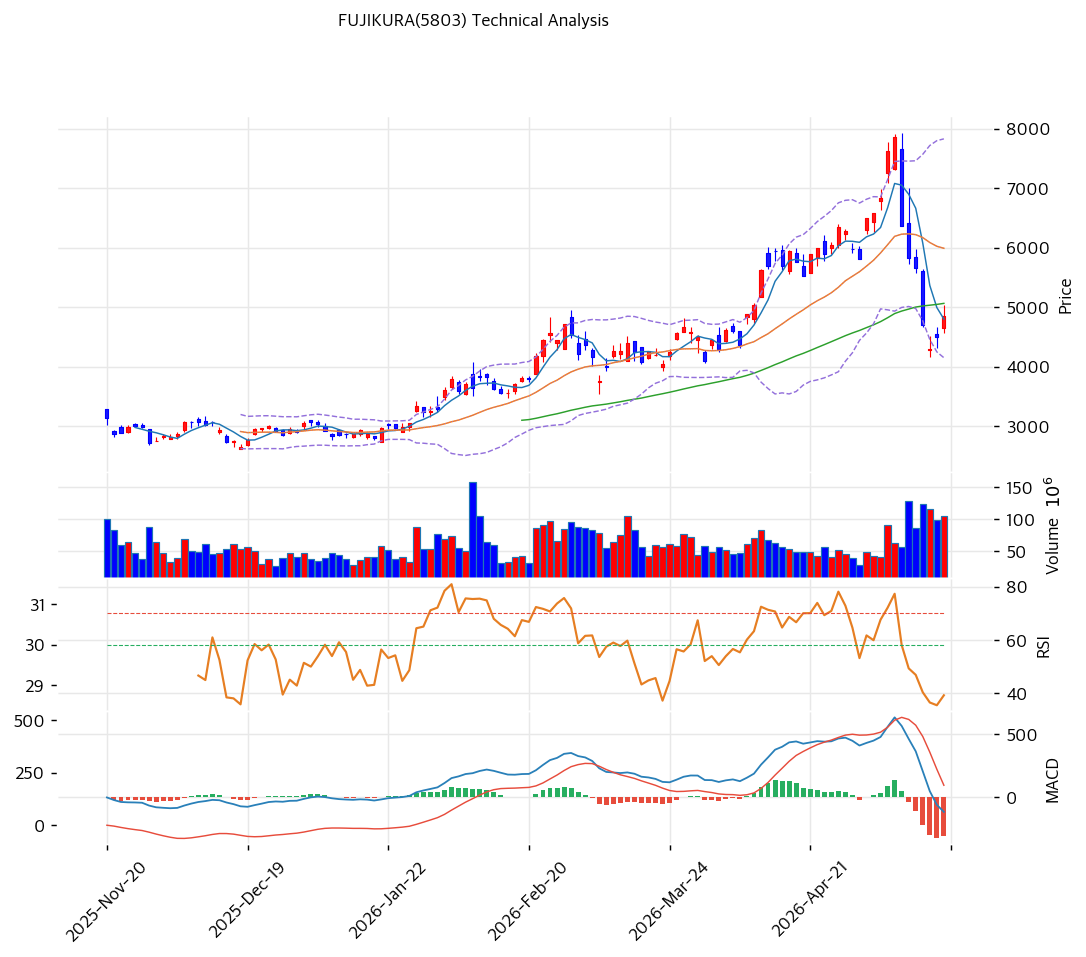
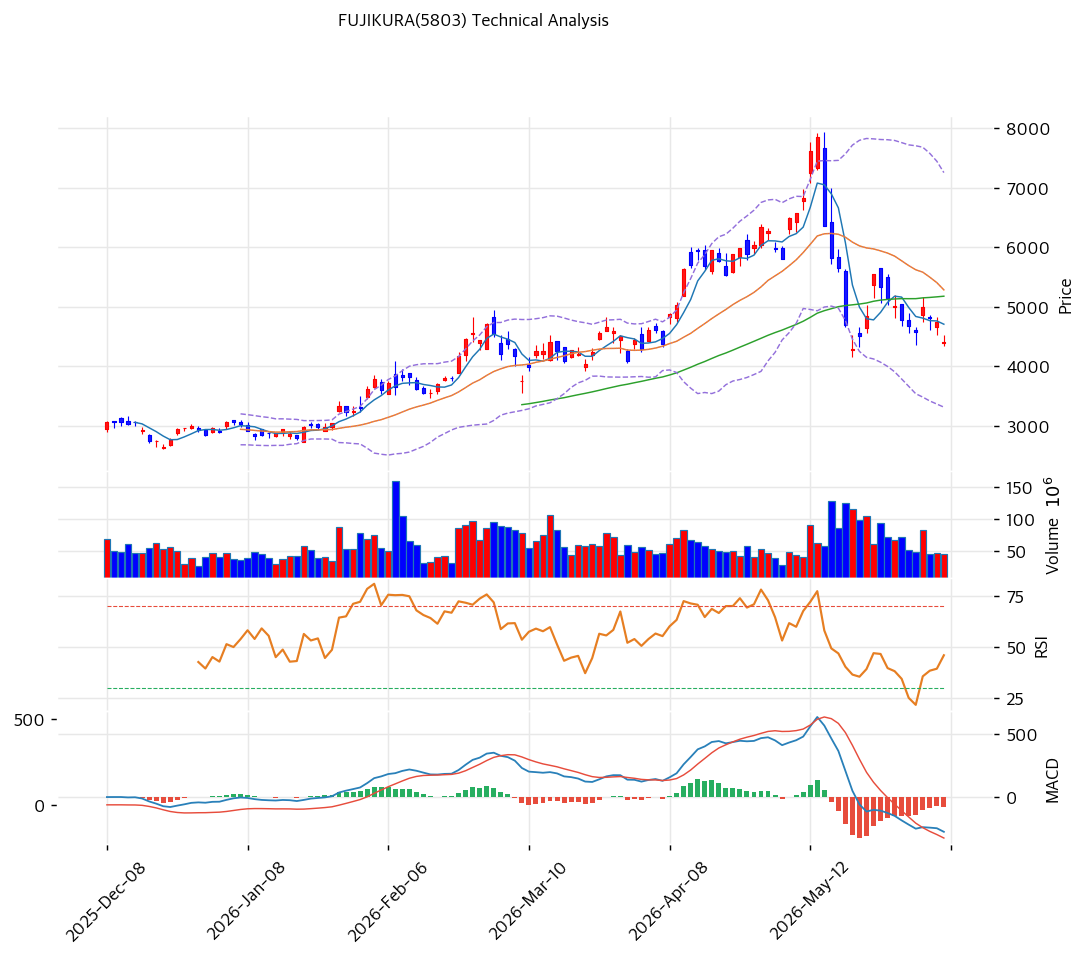
FUJIKURA(5803) 보고서 업데이트

diff --git a/5803_/t2.md b/5803_/t2.md
@@ -1,6 +1,6 @@
 ---
 created: 2026-05-24
-updated: 2026-05-24
+updated: 2026-06-09
 tags:
   - 광통신
   - AI인프라
@@ -23,14 +23,14 @@ links:
 
 | 이동평균 | 값 (¥) | 괴리율 | 위치 |
 |---------|-------:|------:|:----:|
-| MA5 | 4,799 | +1.1% | 위 |
-| MA20 | 5,988 | -19.0% | 아래 |
-| MA60 | 5,062 | -4.2% | 아래 |
-| MA120 | 4,080 | +18.9% | 위 |
-| MA200 | 3,417 | +42.0% | 위 |
+| MA5 | 4,706 | -6.5% | 아래 |
+| MA20 | 5,283 | -16.7% | 아래 |
+| MA60 | 5,176 | -15.0% | 아래 |
+| MA120 | 4,265 | +3.2% | 위 |
+| MA200 | 3,597 | +22.4% | 위 |
 
-- **정배열 여부**: 비정배열. 단기선(MA5/20)이 중기선(MA60) 아래로 하락 크로스하며 데드크로스 형성
-- **추세 요약**: 2025.11\~2026.4월 급등(¥3,000→¥7,933) 후 -39% 급조정 진행 중. MA120(¥4,080)에서 1차 지지, 현재 반등 시도. 중기 하락 추세 속 단기 반등 구간
+- **정배열 여부**: 비정배열. 단기·중기선(MA5/20/60) 모두 현재가 위에 위치한 하락 배열. 장기선(MA120/200)만 아래 지지
+- **추세 요약**: 2025.11\~2026.4월 급등(¥1,100→¥7,855) 후 -44% 급조정 진행 중. 직전(2주 전 ¥4,850) 대비 추가 -9% 하락하며 **MA120(¥4,265)을 지지선으로 테스트**. 중기 하락 추세 지속, 당일 -7.29% 급락
 
 ---
 
@@ -38,13 +38,13 @@ links:
 
 | 지표 | 값 | 신호 |
 |------|-----|:----:|
-| RSI(14) | 42.5 | 중립 ⚪ |
-| MACD | -115 / Signal 190 / Hist -305 | 매도 🔴 |
-| MACD 히스토그램 | 수축 중 | 매도세 약화 |
-| 스토캐스틱 | K=10.4, D=5.9 | 과매도·골든크로스 🟢 |
-| 거래량 비율 | 1.62 | 평균 대비 62% 증가 |
+| RSI(14) | 40.0 | 중립 ⚪ |
+| MACD | -276 / Signal -194 / Hist -82 | 매도 🔴 |
+| MACD 히스토그램 | 확장 중 | 매도세 강화 |
+| 스토캐스틱 | K=30.5, D=30.4 | 골든크로스·중립 ⚪ |
+| 거래량 비율 | 0.58 | 평균 대비 -42% 위축 |
 
-**모멘텀 해석**: MACD 매도 신호 유지되나 히스토그램 수축 시작. 스토캐스틱이 과매도 구간(K=10, D=6)에서 골든크로스 발생하며 단기 반등 시그널 출현. RSI 42.5는 중립으로 추세 전환 여부는 미확정.
+**모멘텀 해석**: MACD 매도 신호 유지 + 히스토그램이 다시 **확장(매도세 강화)** — 2주 전 수축 국면에서 재차 악화. RSI 40.0 중립이나 하단으로 이동. 스토캐스틱은 과매도 탈출(K=30.5) 후 골든크로스이나 강도 약함. 거래량 0.58x로 위축 — 투매가 아닌 매수세 실종형 하락. 단기 반등 동력 미약.
 
 ---
 
@@ -52,12 +52,12 @@ links:
 
 | 볼린저 밴드 | 값 (¥) |
 |------------|-------:|
-| 상단 | 7,828 |
-| 중간 (MA20) | 5,988 |
-| 하단 | 4,149 |
-| 밴드폭 | 61.4% |
+| 상단 | 7,254 |
+| 중간 (MA20) | 5,283 |
+| 하단 | 3,312 |
+| 밴드폭 | 74.6% |
 
-**밴드 해석**: 밴드폭 61.4%로 극도로 확장된 상태 — 고점 급등 → 급락 구간의 변동성 반영. 현재가 ¥4,850은 하단(¥4,149) 근접 후 반등, 중간선(¥5,988)까지 상당 거리. 밴드 수축 시 변동성 축소와 함께 방향성 결정 예상.
+**밴드 해석**: 밴드폭 74.6%로 극도로 확장 — 고점 급등→급락 구간의 초고변동성 반영. 현재가 ¥4,401은 중간선(¥5,283)과 하단(¥3,312) 사이 중간 구간. 하단 ¥3,312까지 추가 하방 여지가 열려 있어, 밴드 수축 전까지 변동성 위험 상존.
 
 ---
 
@@ -65,14 +65,14 @@ links:
 
 | 지표 | 판정 | 비고 |
 |------|:----:|------|
-| 이동평균선 | ⚪ 중립 | 비정배열, MA20 -19.0% |
-| RSI | ⚪ 중립 | 42.5, 중립 |
-| MACD | 🔴 매도 | 데드크로스 유지, 히스토그램 수축 |
-| 볼린저 | ⚪ 중립 | 하단 근접 후 반등 |
-| 스토캐스틱 | 🟢 매수 | 과매도 골든크로스 |
-| 거래량 | ⚪ 중립 | 1.62배, 낙폭과대 반등 거래 |
+| 이동평균선 | 🔴 매도 | 비정배열, MA5/20/60 아래 |
+| RSI | ⚪ 중립 | 40.0, 하단 이동 |
+| MACD | 🔴 매도 | 데드크로스 + 히스토그램 확장 |
+| 볼린저 | ⚪ 중립 | 중간 구간, 하단 여지 |
+| 스토캐스틱 | ⚪ 중립 | 골든크로스나 강도 약함 |
+| 거래량 | ⚪ 중립 | 0.58배 위축 |
 
-**종합 판정**: 매수 1 / 매도 1 / 중립 4 → **중립**
+**종합 판정**: 매수 0 / 매도 1 / 중립 5 → **매도우위(중립)**
 
 ---
 
@@ -82,31 +82,29 @@ links:
 
 | 레벨 | 가격 (¥) |
 |------|-------:|
-| R2 | 5,286 |
-| R1 | 5,068 |
-| Pivot | 4,813 |
-| S1 | 4,595 |
-| S2 | 4,340 |
+| R2 | 4,609 |
+| R1 | 4,505 |
+| Pivot | 4,421 |
+| S1 | 4,317 |
+| S2 | 4,233 |
 
-### 피보나치 되돌림 (Swing High ¥7,933 → Swing Low ¥933)
+### 피보나치 되돌림 (Swing High ¥7,855 → Swing Low ¥4,295, 하락 추세)
 
 | 레벨 | 가격 (¥) | 현재가 대비 |
 |------|-------:|----------:|
-| 0.236 | 6,281 | +29.5% |
-| 0.382 | 5,259 | +8.4% |
-| **0.5** | **4,433** | **-8.6%** |
-| 0.618 | 3,607 | -25.6% |
+| 0.236 | 5,135 | +16.7% |
+| 0.382 | 5,655 | +28.5% |
+| **0.5** | **6,075** | **+38.0%** |
+| 0.618 | 6,495 | +47.6% |
 
-> 현재가 ¥4,850은 피보나치 0.382(¥5,259)\~0.5(¥4,433) 되돌림 구간에 위치. 추세선 지지(¥4,105)와 MA120(¥4,080)이 0.5 레벨 근처에서 복합 지지대 형성.
+> 직전 고점(¥7,855)에서 저점(¥4,295)까지의 하락 스윙 기준. 현재가 ¥4,401은 스윙 저점(¥4,295) 바로 위 — 저점 지지 테스트 국면. 되돌림 0.236(¥5,135)이 1차 반등 저항.
 
 ### PRZ (잠재 반전 구간)
 
-| 방향 | 가격대 (¥) | 근거 |
-|:----:|----------:|------|
-| 저항 | 5,065 | MA60 + 피봇 R1 |
-| 저항 | 5,272 | 피보나치 0.382 + 피봇 R2 |
-| 지지 | 4,386 | 피봇 S2 + 피보나치 0.5 |
-| 지지 | 4,092 | MA120 + 추세선 지지 |
+| 방향 | 가격대 (¥) | 신뢰도 | 근거 |
+|:----:|----------:|:----:|------|
+| 지지 | 4,233\~4,376 | 강 | 피봇 S2 + MA120 + 피봇 S1 + 추세선 지지 |
+| 저항 | 5,135\~5,176 | 약 | 피보나치 0.236 + MA60 |
 
 ---
 
@@ -116,16 +114,16 @@ links:
 
 | 항목 | 가격 (¥) | 비고 |
 |------|-------:|------|
-| 1차 저항 | 5,065 | MA60 + 피봇 R1, 단기 반등 목표 |
-| 2차 저항 | 5,272 | 피보나치 0.382 되돌림 |
-| 손절 | 4,080 | MA120 이탈 시 중기 추세 훼손 |
+| 1차 저항 | 5,135\~5,176 | 피보나치 0.236 + MA60, 단기 반등 목표 |
+| 2차 저항 | 5,283 | MA20(BB 중간) |
+| 손절 | 4,233 | PRZ 강지지(S2+MA120) 이탈 시 중기 추세 훼손 |
 
 ### 관망자 전략
 
 | 항목 | 가격 (¥) | 비고 |
 |------|-------:|------|
-| 1차 진입 | 4,340\~4,400 | 피봇 S2 + 피보나치 0.5 복합 지지 |
-| 2차 진입 | 4,080 | MA120 + 추세선 지지 테스트 |
-| 손절 | 3,600 | 피보나치 0.618 이탈 시 |
+| 1차 진입 | 4,233\~4,376 | PRZ 강지지(S2+MA120+추세선) 분할 |
+| 2차 진입 | 3,800 내외 | MA120 이탈 시 BB 하단(¥3,312) 방향 추가 분할 |
+| 손절 | 3,300 | BB 하단·피보 확장 이탈 시 |
 
-**전략 요약**: 급등(+164%) 후 -39% 조정으로 스토캐스틱 과매도 골든크로스 출현, 단기 기술적 반등 가능. 그러나 중기 이평선(MA20/60) 아래에 위치하여 본격적 추세 반전은 미확인. ¥5,065(MA60) 돌파 여부가 중기 방향성 핵심 분기점.
+**전략 요약**: 급등(+600%대) 후 -44% 조정으로 MA120(¥4,265) 강지지대를 테스트 중. 당일 -7.29% 급락 + MACD 매도세 재확장 + 거래량 위축으로 **단기 반등 동력 미약**. 스윙 저점(¥4,295)·MA120 지지 유지 여부가 핵심 분기점이며, 이탈 시 BB 하단(¥3,312)까지 하방 여지. 추격 매수보다 PRZ 강지지(¥4,233\~4,376) 분할 + 거래량 회복·MA60(¥5,176) 회복 확인 후 접근이 안전.

diff --git a/5803_/t3.md b/5803_/t3.md
@@ -1,6 +1,6 @@
 ---
 created: 2026-05-24
-updated: 2026-05-24
+updated: 2026-06-09
 tags:
   - 광통신
   - AI인프라
@@ -17,16 +17,17 @@ links:
 
 | 지표 | 값 | 비고 |
 |------|---:|------|
-| PER (TTM) | 51.0x | FY2025 EPS ¥95.1 기준 |
-| PER (FWD) | 16.0x | Forward EPS ¥302.8 기준 |
-| PBR | 14.3x | ROE 31.5% 프리미엄 반영 |
-| EV/EBITDA | 37.1x | EV ¥79,832億 / EBITDA ¥1,475億 |
-| EV/Revenue | 6.8x | 고마진 텔레콤 부문 가치 반영 |
+| 현재가 | ¥4,401 | 2026-06-09 (당일 -7.29%) |
+| PER (TTM) | 46.9x | FY2025 EPS 기준 |
+| PER (FWD) | 14.7x | Forward EPS ¥302.8 기준 |
+| PBR | 13.2x | ROE 31.5% 프리미엄 반영 |
+| EV/EBITDA | 36.3x | EV / EBITDA ¥1,475億 |
+| EV/Revenue | 6.6x | 고마진 텔레콤 부문 가치 반영 |
 | PEG | 0.94 | 1.0 미만 — 성장 대비 매력적 |
 | 배당수익률 | 0.4% | DPS ¥21.7 (FY2026) |
 | Beta | 0.78 | 시장 대비 낮은 변동성 |
 
-**현재 밸류에이션 특성**: TTM 기준 PER/PBR/EV-EBITDA 모두 고평가 구간이나, Forward PER 16.0x와 PEG 0.94는 높은 이익 성장률(EPS YoY +219%)을 반영하면 합리적 수준. 핵심은 Forward EPS ¥302.8의 실현 가능성.
+**현재 밸류에이션 특성**: TTM 기준 PER/PBR/EV-EBITDA 모두 고평가 구간이나, Forward PER 14.7x와 PEG 0.94는 높은 이익 성장률(EPS YoY +219%)을 반영하면 합리적 수준. 52주 고점(¥7,855) 대비 -44% 조정으로 멀티플 부담이 일부 완화. 핵심은 Forward EPS ¥302.8의 실현 가능성.
 
 ---
 
@@ -34,7 +35,7 @@ links:
 
 | 기업 | Mcap(億円) | PER(TTM) | PBR | ROE(%) | OPM(%) |
 |------|----------:|--------:|----:|------:|------:|
-| **FUJIKURA (5803)** | **80,299** | **51.0** | **14.3** | **31.5** | **14.2** |
+| **FUJIKURA (5803)** | **73,793** | **46.9** | **13.2** | **31.5** | **14.2** |
 | Komatsu (6301) | 56,219 | 14.7 | 1.6 | 11.4 | — |
 | Hitachi (6501) | 128,946 | 31.7 | 2.9 | 10.0 | — |
 | MHI (7011) | — | — | — | — | — |
@@ -52,10 +53,10 @@ links:
 
 | 시나리오 | 기준 | 적용 배수 | 적정가 (¥) | 현재가 대비 |
 |---------|------|-------:|----------:|----------:|
-| Bull | Forward EPS ¥302.8 × PER 25x | 25.0x | 7,570 | +56.1% |
-| Base | Forward EPS ¥302.8 × PER 20x | 20.0x | 6,056 | +24.9% |
-| Bear | Forward EPS ¥302.8 × PER 15x | 15.0x | 4,542 | -6.3% |
-| 하방 극단 | TTM EPS ¥95.1 × PER 30x | 30.0x | 2,853 | -41.2% |
+| Bull | Forward EPS ¥302.8 × PER 25x | 25.0x | 7,570 | +72.0% |
+| Base | Forward EPS ¥302.8 × PER 20x | 20.0x | 6,056 | +37.6% |
+| Bear | Forward EPS ¥302.8 × PER 15x | 15.0x | 4,542 | +3.2% |
+| 하방 극단 | TTM EPS ¥95.1 × PER 30x | 30.0x | 2,853 | -35.2% |
 
 ### EV/EBITDA 기준
 
@@ -74,9 +75,9 @@ links:
 Fujikura의 PBR 14.3x는 TSE Prime 시장에서 극히 이례적 수준. TSE가 2023년 PBR 1x 미만 기업에 개선을 요구한 것과 대조적으로, Fujikura는 ROE 31.5%로 높은 자기자본 활용 효율을 보이며 PBR 프리미엄이 정당화됨.
 
 ### 52주 관점
-- 52주 고가: ¥7,933 (현재 대비 +63.6%)
-- 52주 저가: ¥949 (현재 대비 -80.4%)
-- 52주 내 위치: 56.5%
+- 52주 고가: ¥7,855 (현재 대비 +78.5%)
+- 52주 저가: ¥1,100 (현재 대비 -75.0%)
+- 52주 내 위치: 48.9%
 
 ### 핵심 변수
 1. **Forward EPS ¥302.8 달성 가시성**: TTM EPS ¥95.1 대비 +219% 성장이 핵심. AI 데이터센터 수주 모멘텀 지속 시 달성 가능
@@ -84,4 +85,4 @@ Fujikura의 PBR 14.3x는 TSE Prime 시장에서 극히 이례적 수준. TSE가 
 3. **엔화 환율**: 엔저 지속 시 해외 실적 환산 이익 추가
 
 ### 종합 밸류에이션
-Forward PER 16.0x / PEG 0.94는 AI 인프라 고성장주로서 매력적 구간. 52주 고점 대비 -39% 조정으로 단기 과열 해소. Base Case 적정가 ¥6,056(현재 대비 +24.9%)으로 상승 여력 존재하나, Forward EPS 미달성 시 Bear Case ¥4,542까지 하방 리스크.
+Forward PER 14.7x / PEG 0.94는 AI 인프라 고성장주로서 매력적 구간. 52주 고점(¥7,855) 대비 -44% 조정으로 단기 과열 해소. Base Case 적정가 ¥6,056(현재 ¥4,401 대비 +37.6%)으로 상승 여력 존재하나, Forward EPS 미달성 시 Bear Case ¥4,542(+3.2%) 근방까지 회귀 리스크. 당일 -7.29% 급락·MA120 지지 테스트 국면이므로, 단기 기술적 안정(거래량 회복) 확인 후 분할 접근이 합리적.

diff --git a/SUMMARY.md b/SUMMARY.md
@@ -1,5 +1,10 @@
 # 종목분석 아카이브
 
+* [FUJIKURA (5803)](5803_/README.md)
+  * [기초보고서](5803_/t1.md)
+  * [기술적분석](5803_/t2.md)
+  * [Valuation](5803_/t3.md)
+  * [Deep Dive](5803_/t4.md)
 * [티에프이 (425420)](425420_/README.md)
   * [기초보고서](425420_/t1.md)
   * [기술적분석](425420_/t2.md)
@@ -205,11 +210,6 @@
   * [기술적분석](6503_/t2.md)
   * [Valuation](6503_/t3.md)
   * [Deep Dive](6503_/t4.md)
-* [FUJIKURA (5803)](5803_/README.md)
-  * [기초보고서](5803_/t1.md)
-  * [기술적분석](5803_/t2.md)
-  * [Valuation](5803_/t3.md)
-  * [Deep Dive](5803_/t4.md)
 * [SUMITOMO ELECTRIC INDUSTRIES (5802)](5802_/README.md)
   * [기초보고서](5802_/t1.md)
   * [기술적분석](5802_/t2.md)